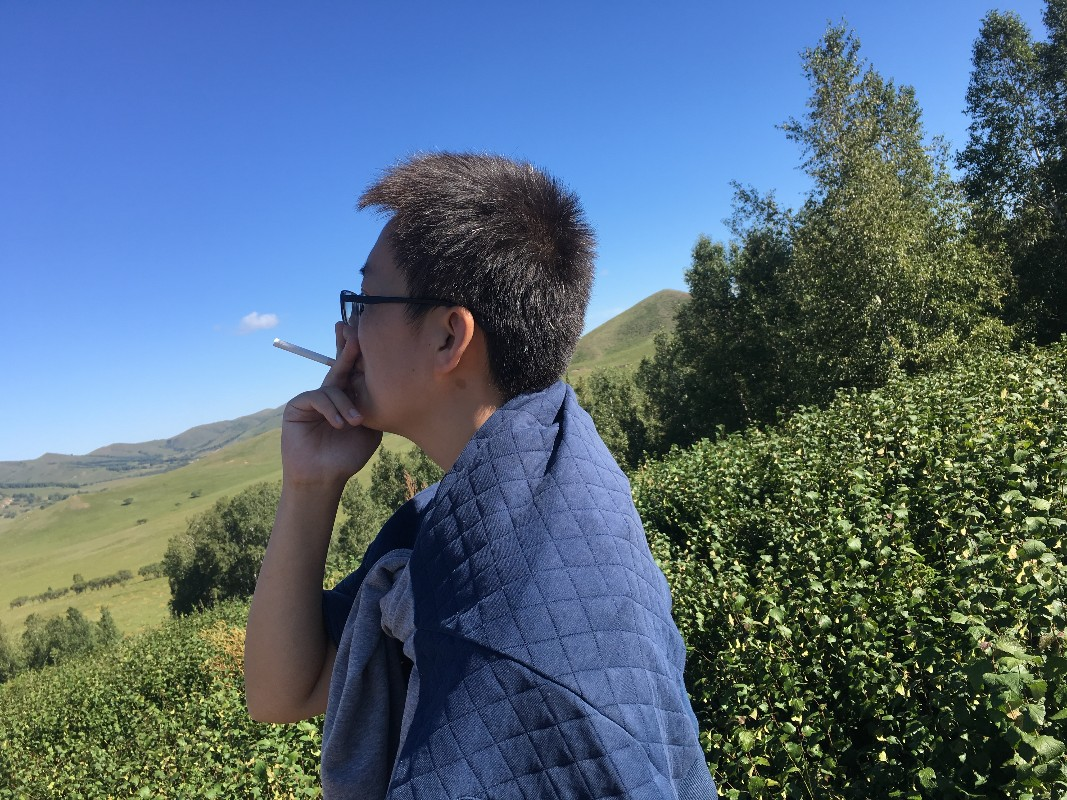
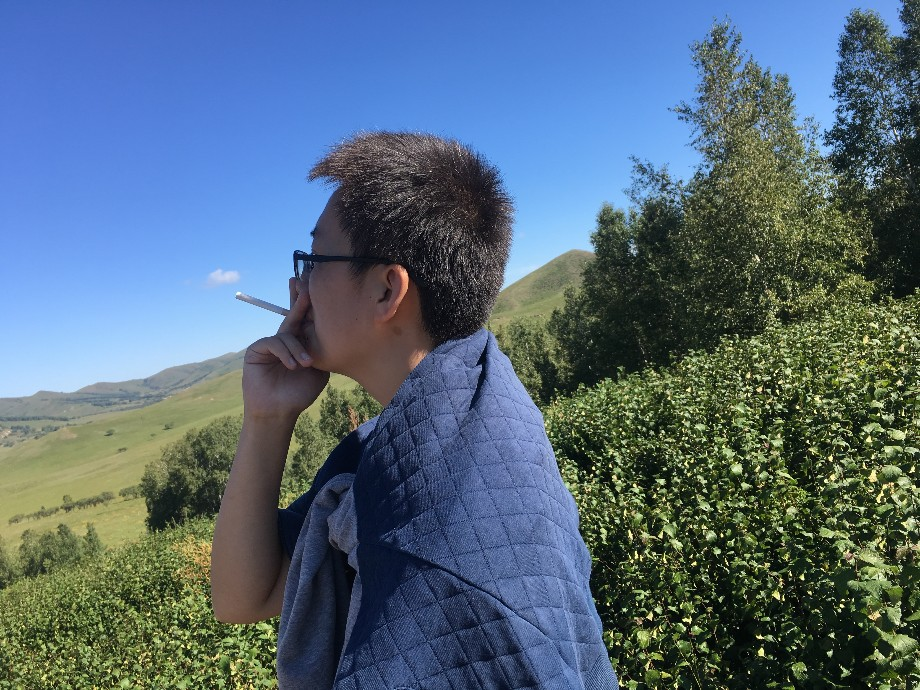
优化图片大小&&尝试修复访问存表问题

diff --git a/helloworld/templates/index.html b/helloworld/templates/index.html
@@ -8,7 +8,7 @@
     <meta content="杨毅 - 测试工程师" name="description">
     <meta content="BdgPixel" name="author">
     <!--Fav-->
-    <link href="/static/images/favicon.ico" rel="shortcut icon">
+    <link href="/static/images/favicon.png" rel="shortcut icon">
 
     <!--styles-->
     <link href="/static/css/bootstrap.min.css" rel="stylesheet">
